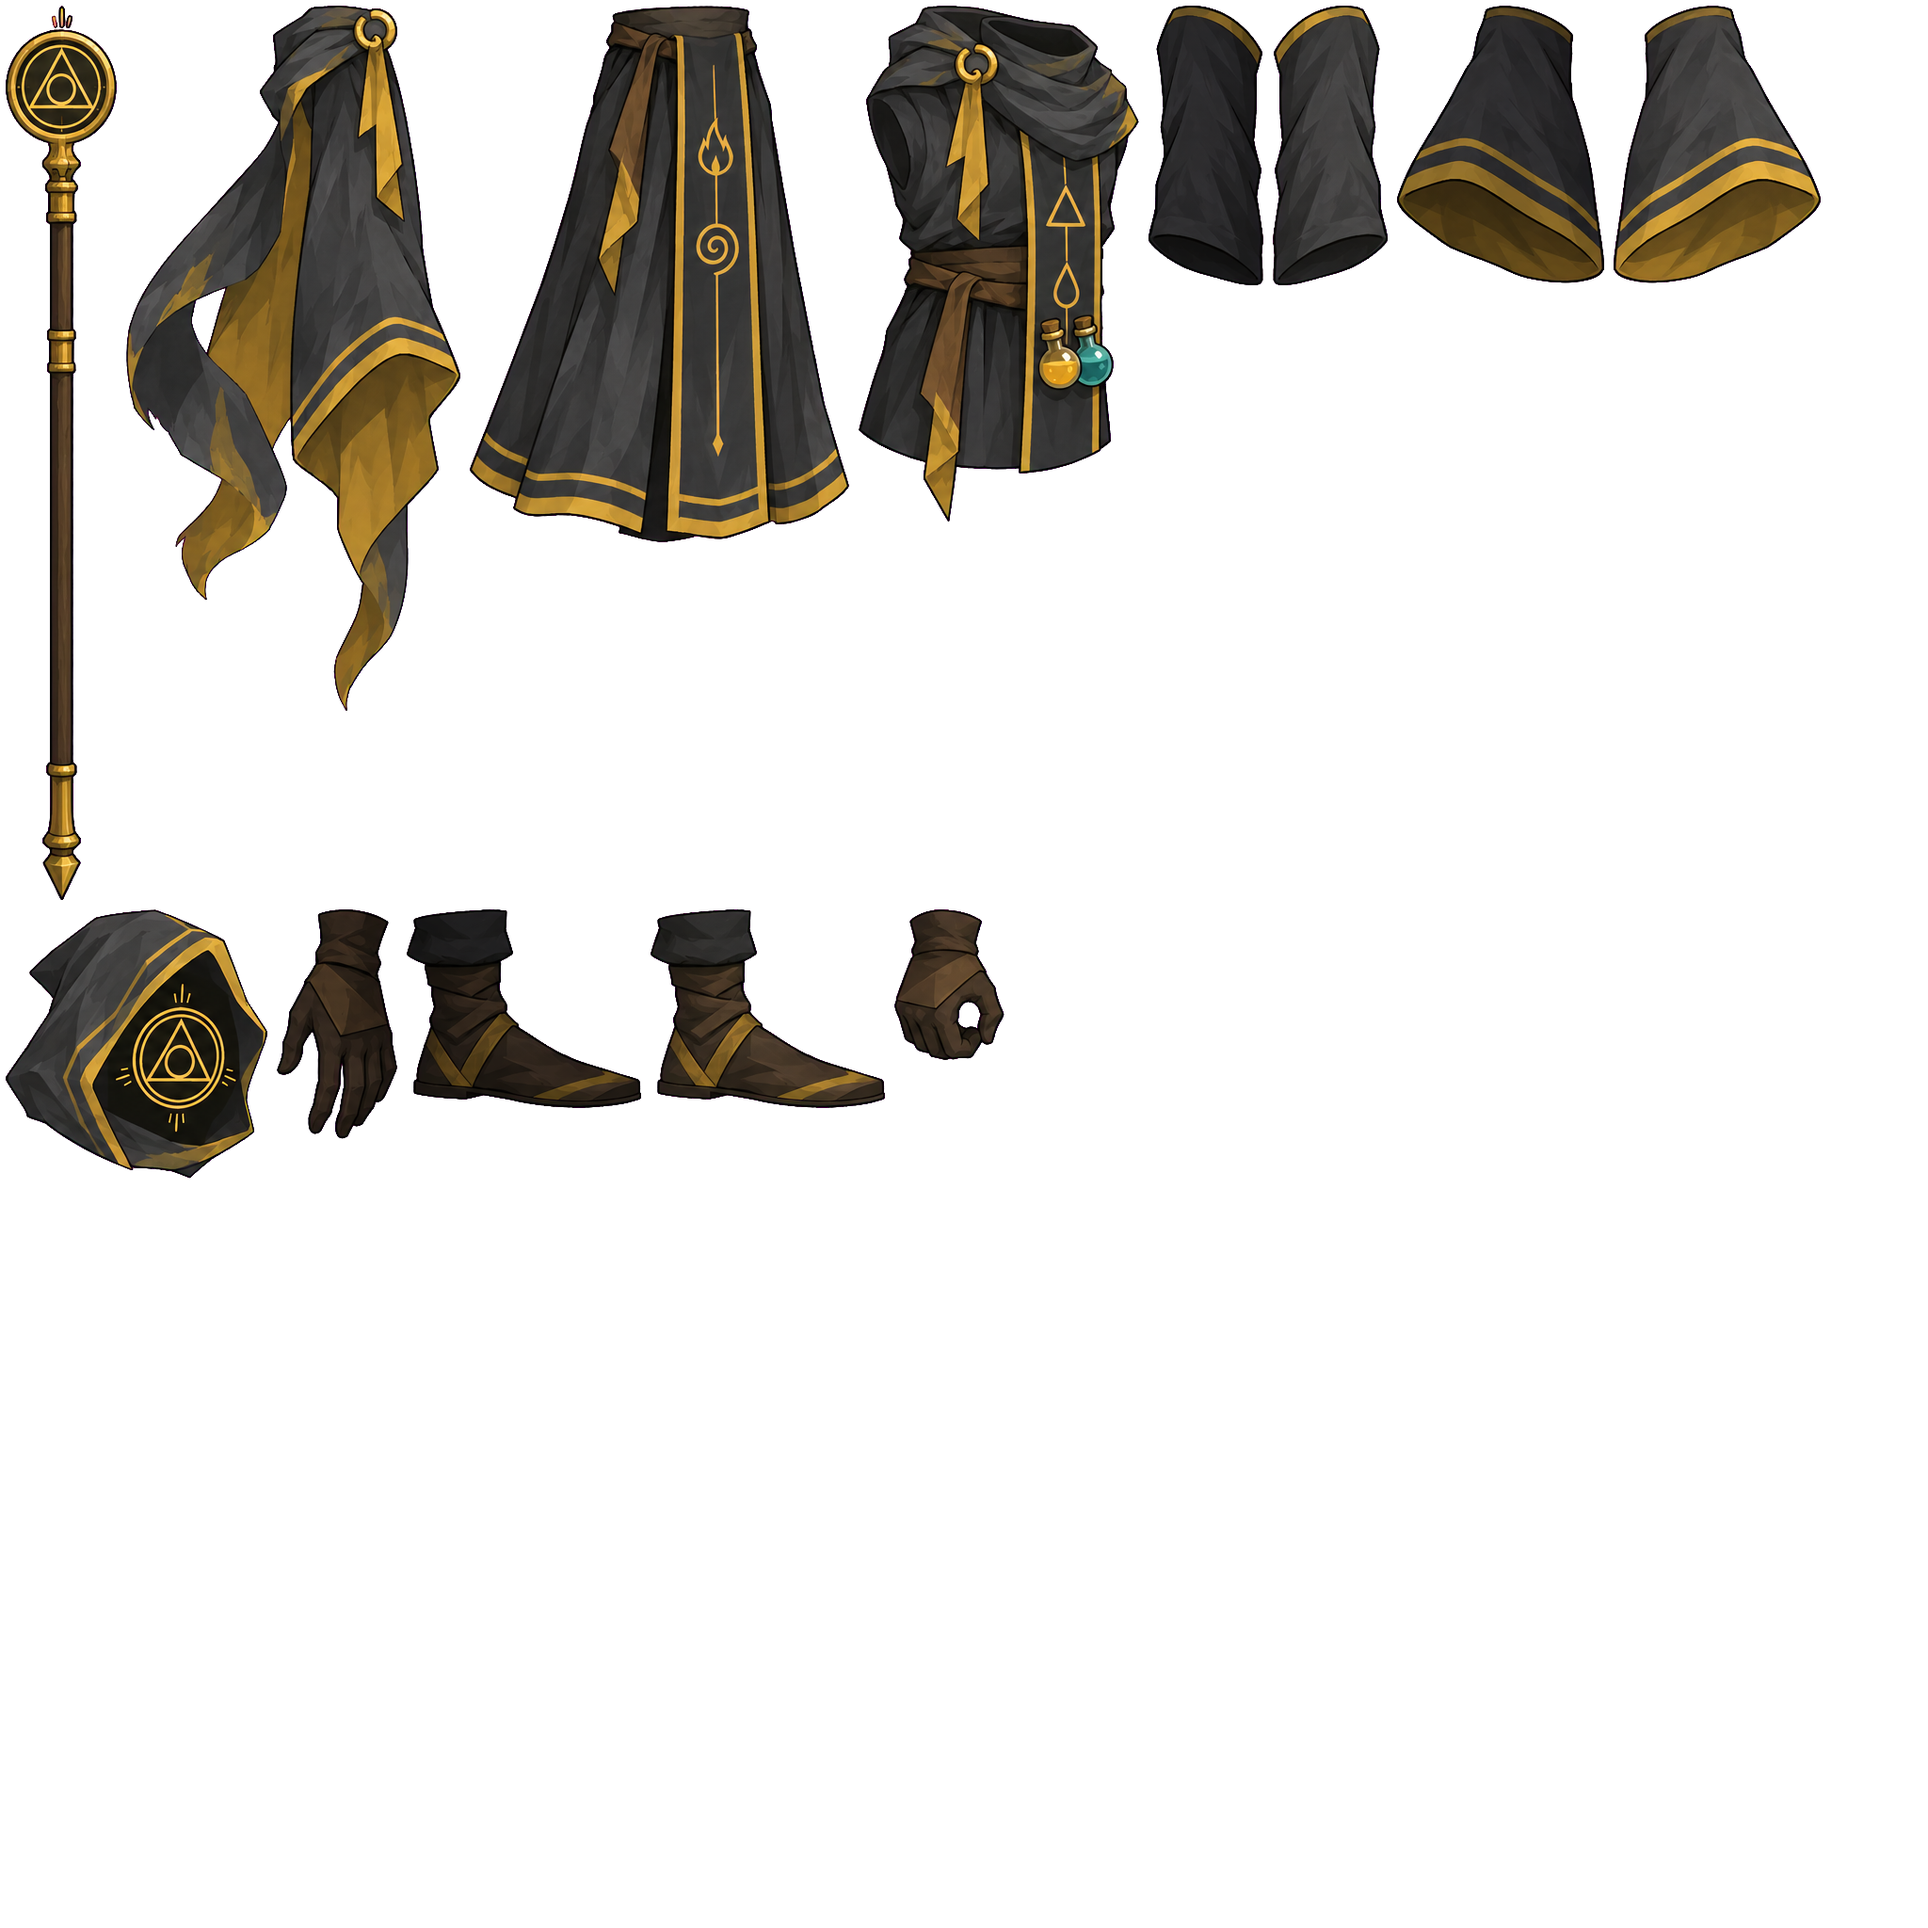
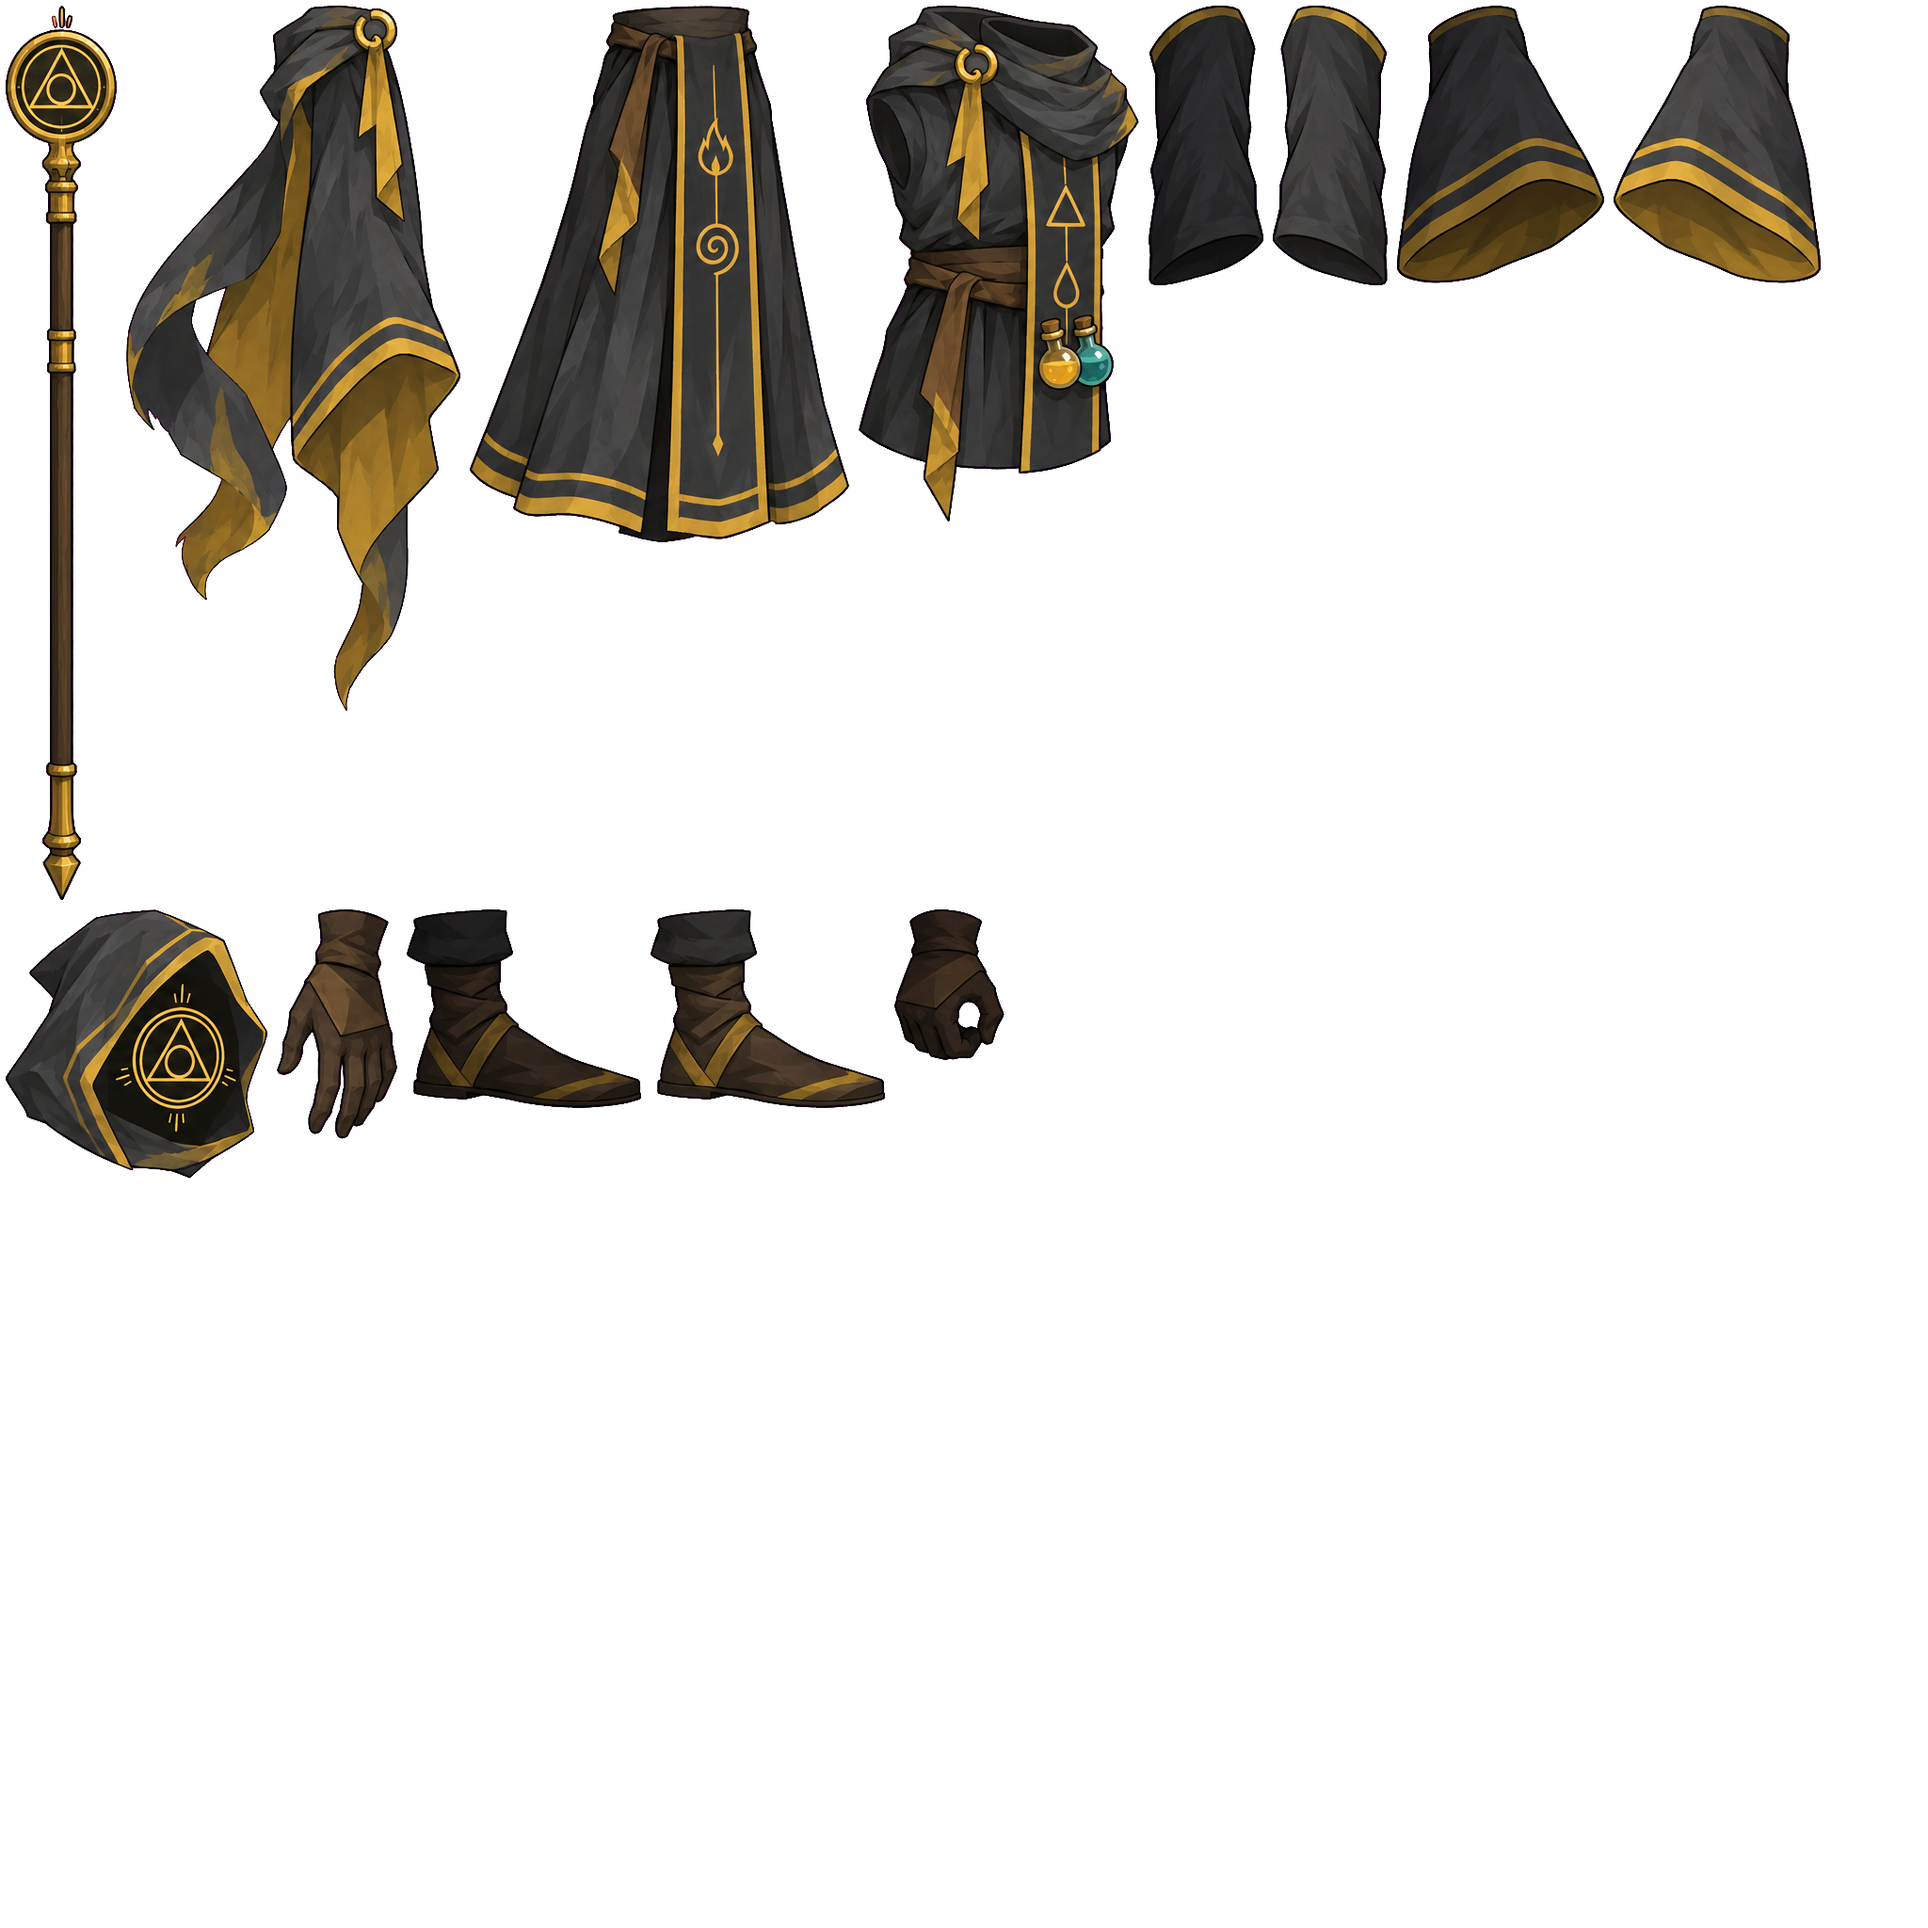
自前の骨格：手前の腕を画面左に（胴は右向きの3/4）、杖を持つ右の腕は胴の奥に暗めで描く

Changed region(s): [[0.5938, 0.0, 0.9688, 0.1562], [0.125, 0.4688, 0.1875, 0.5938], [0.4688, 0.4688, 0.5312, 0.5312]]

diff --git a/scripts/rig-build.py b/scripts/rig-build.py
@@ -47,23 +47,26 @@ BONES = {
 }
 
 # Slots in draw order (back to front): (slot, bone, part, world centre x, y, extra rotation, flip, tint).
-# tint darkens the far-side limbs so they read as behind.
+# The torso is drawn turned to the right (three-quarter view), so the near side is the LEFT of the picture: the left
+# arm and foot are drawn in front of the body, the right (enemy-side) arm that holds the staff behind it, darkened
+# by tint so it reads as farther (user, 2026-10-02: "the arms look the wrong way round").
+# Bone names: *_f = the forward (enemy-side, far) limbs, *_b = the back-side (near) limbs.
 FAR = "a8a8b0"
 SLOTS = [
     ("cape", "cape", "CAPE", -150, 560, 0, False, None),
-    ("arm_b", "arm_b", "UPPER_ARM", -125, 720, 10, True, FAR),
-    ("hand_b", "hand_b", "HAND_OPEN", -175, 230, 5, True, FAR),
-    ("fore_b", "fore_b", "FOREARM", -160, 460, 5, True, FAR),
-    ("foot_b", "foot_b", "BOOT", -40, 112, 0, False, FAR),
-    ("foot_f", "foot_f", "BOOT", 95, 108, 0, False, None),
+    ("staff", "staff", "STAFF", 345, 640, 0, False, None),
+    ("hand_f", "hand_f", "HAND_GRIP", 345, 400, 0, False, FAR),
+    ("arm_f", "arm_f", "UPPER_ARM", 130, 720, -10, False, FAR),
+    ("fore_f", "fore_f", "FOREARM", 245, 505, 40, False, FAR),
+    ("foot_f", "foot_f", "BOOT", 95, 108, 0, False, FAR),
+    ("foot_b", "foot_b", "BOOT", -40, 112, 0, False, None),
     # The boots stay behind the robe: only the shoes show under the hem.
     ("skirt", "skirt", "SKIRT", 0, 345, 0, False, None),
     ("torso", "torso", "TORSO", 10, 690, 0, False, None),
     ("head", "head", "HOOD", 25, 1030, 0, False, None),
-    ("staff", "staff", "STAFF", 345, 640, 0, False, None),
-    ("hand_f", "hand_f", "HAND_GRIP", 345, 400, 0, False, None),
-    ("arm_f", "arm_f", "UPPER_ARM", 130, 720, -10, False, None),
-    ("fore_f", "fore_f", "FOREARM", 245, 505, 40, False, None),
+    ("arm_b", "arm_b", "UPPER_ARM", -125, 720, 10, True, None),
+    ("hand_b", "hand_b", "HAND_OPEN", -175, 230, 5, True, None),
+    ("fore_b", "fore_b", "FOREARM", -160, 460, 5, True, None),
 ]
 
 

diff --git a/docs/session-log.md b/docs/session-log.md
@@ -17,6 +17,7 @@
 3. `scripts/rig-build.py`：部品を組み上げた姿の画面座標で置き、骨の座標へ変換してSpine 4.2 JSON（`.spine-json`）・アトラス・ページ画像を書き出す。骨18本、スロット13、アニメーション5種（idle_loop・attack・cast・hurt・die）。立ち姿のプレビューは`artifacts/rig-custom/setup.png`。
 4. `src/Alchemy/AlchemistRig.cs`：ネクロバインダーのシーン（大きさ・印の位置のため）に自前の骨格を載せ、シーンの演出（頭の炎・鎌の粒子・斬撃）は隠す。詠唱は`cast`。
 5. 配布物には`alchemist.atlas`・`.png`・`.spine-json`だけを入れる（build.ps1）。スモークの体の確認項目を自前の骨格用に書き換えた。
+6. ユーザー「腕の位置が反対に見える」→ 胴の絵は右向きの3/4なので、手前は画面左の腕。左の腕を胴より手前・普通の色に、杖を持つ右の腕を胴より奥・暗めに入れ替えた（ポーズは同じ）。スモーク405件PASS、反映済み（旧版`artifacts/backups/20261002-013932-634`）。確認用は`artifacts/rig-probe/own-v2-sheet.png`。
 
 ### 次にやること・返答待ち
 1. **ユーザーが実際の戦闘画面で確認**（大きさ・位置・動き）。
